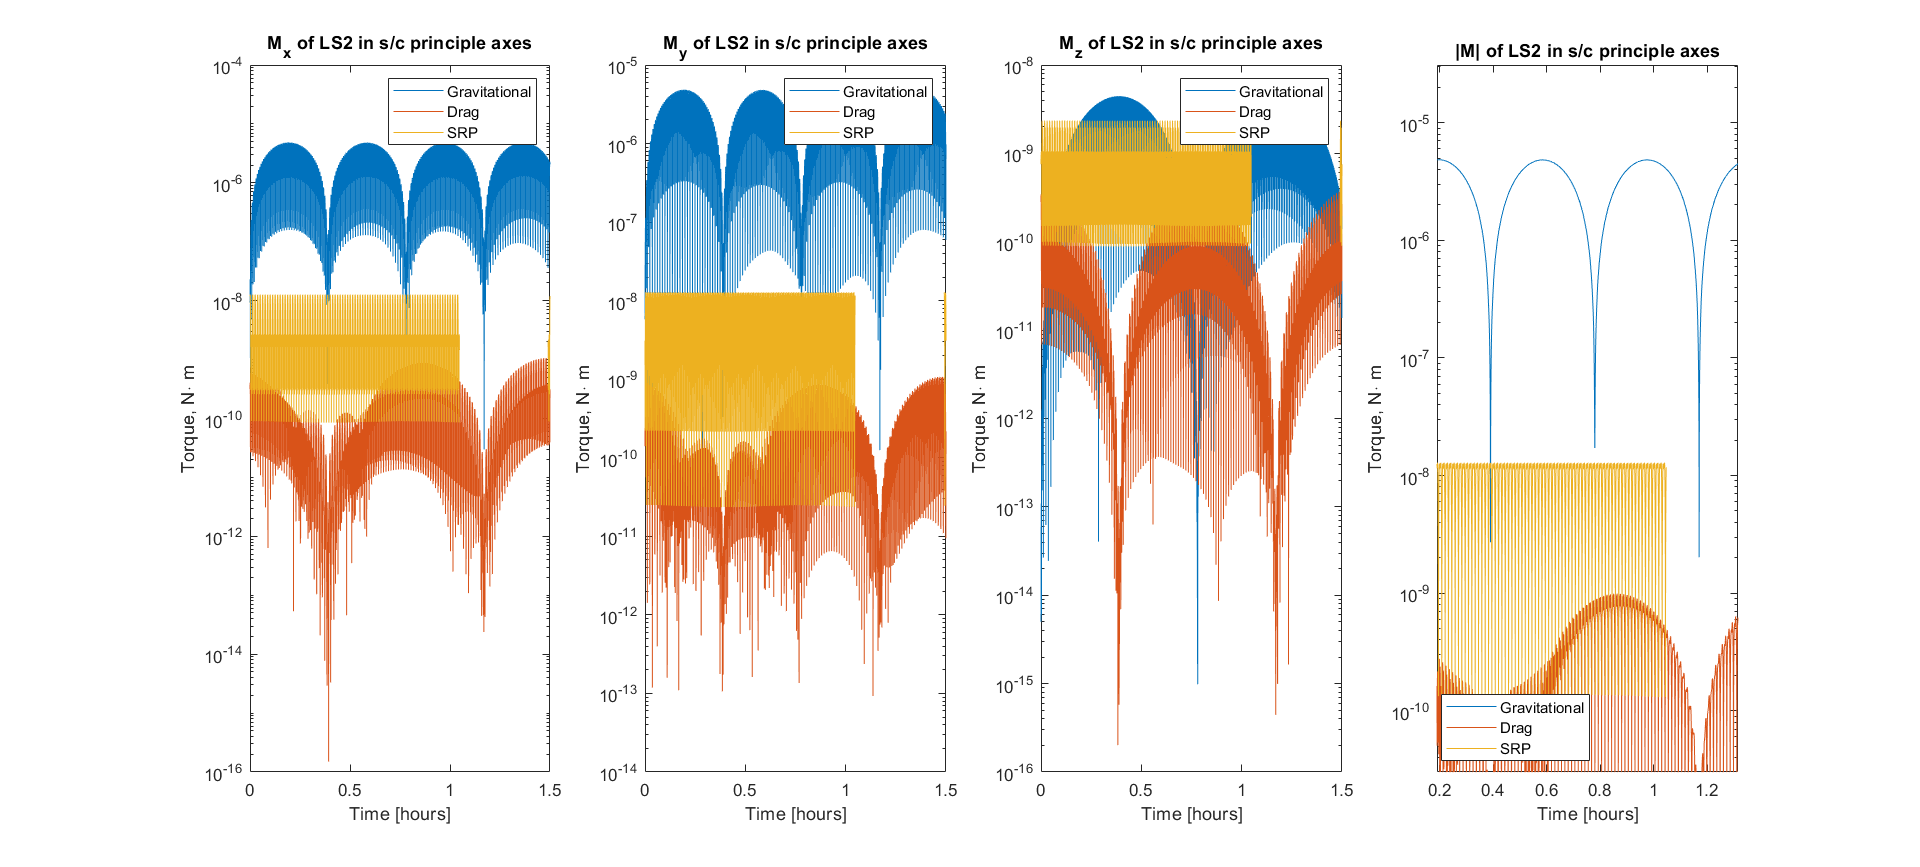
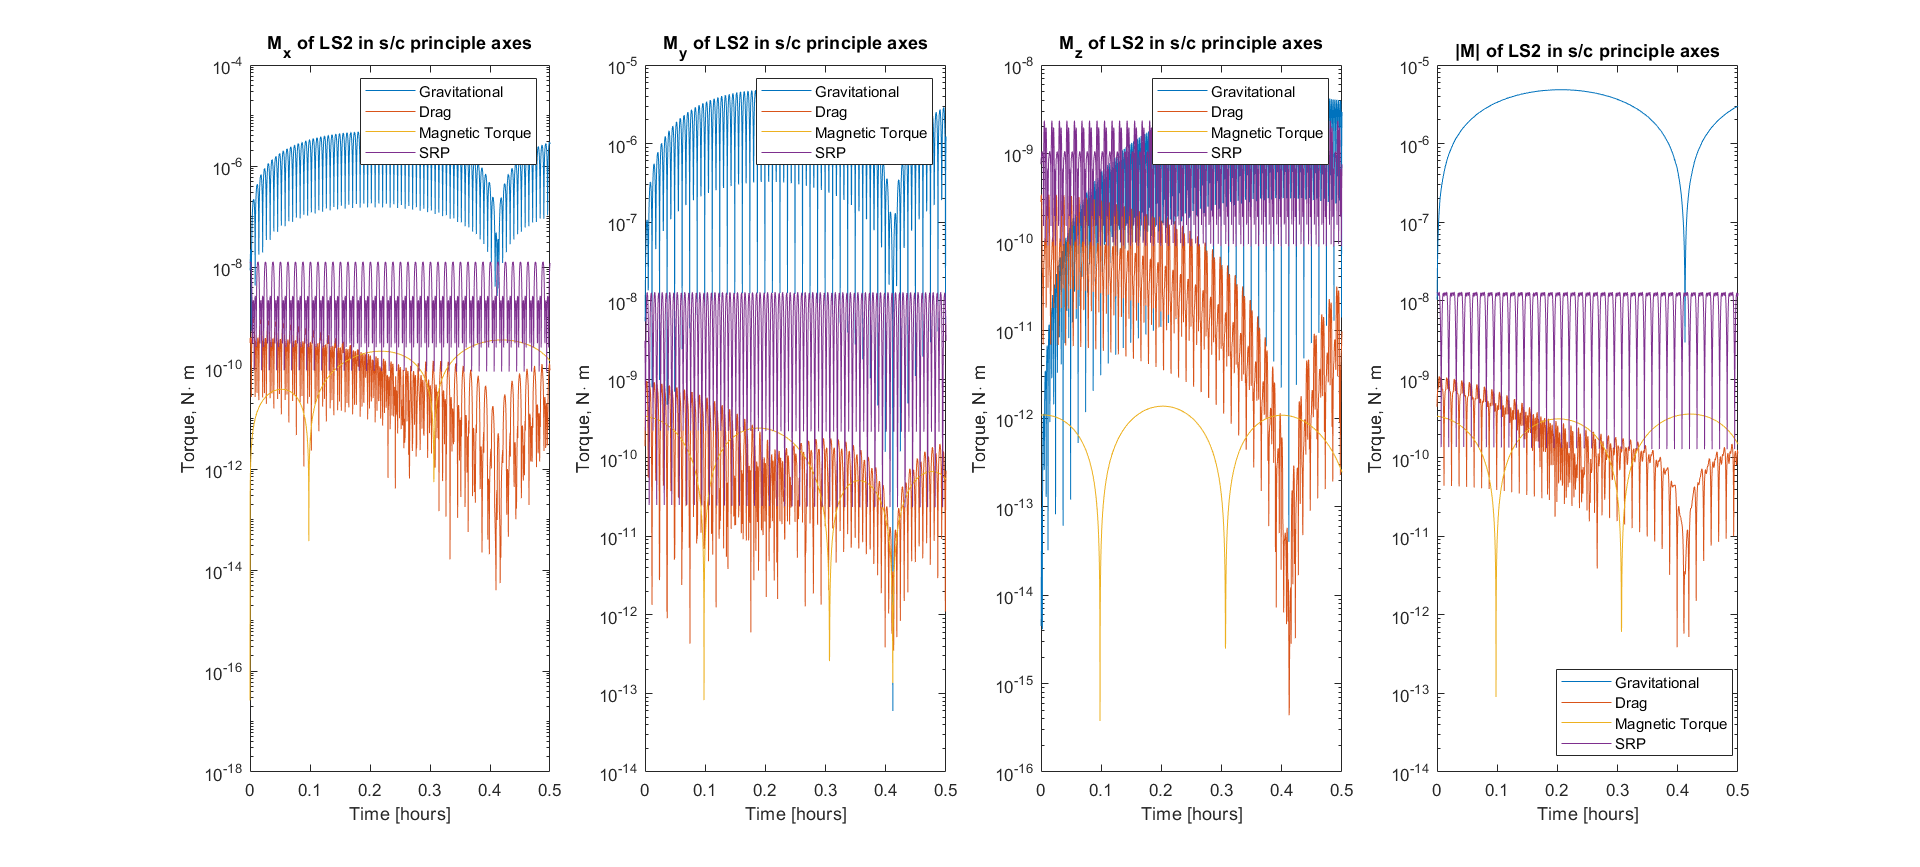
Added new torque comparison with magnetic field, added calculation of Wertz value for magnetic torque.

diff --git a/Matlab/PSET5/Perturbation_Testing.m b/Matlab/PSET5/Perturbation_Testing.m
@@ -28,6 +28,7 @@ plot_format = check_time_increments(plot_format);
 %% Run + process sim
 sim_constants.q0 = [0; sqrt(2)/2; 0; sqrt(2)/2]; % point z in direction of motion, more or less
 sim_constants.angvel0 = deg2rad([0; 0; 8]); % spin about z
+sim_constants.orbital_perturbations_on = false;
 sim('Propagator');
 
 % Extract + plot data
@@ -69,9 +70,10 @@ rho = atmospheric_model(sim_constants.R_Earth, ECI_positions.Data(1,:));
 theta_max = pi/3;
 Mg_max = 1.5*sim_constants.mu_Earth/(norm(ECI_positions.Data(1,:))^3)...
             *(sim_constants.I_princ(3)-sim_constants.I_princ(1))*sin(2*theta_max);
+Mmag_max = 1.5*norm(sim_constants.mag_mom_princ)*7.96e6/(sim_constants.R_Earth^3); 
 Msrp_max = cp*sim_constants.SRP*sim_constants.effective_area_sat_max*1.6 ;
 Mdrag_max = 0.5*cp*rho*sim_constants.Cdrag*sim_constants.effective_area_sat_max*(norm(1000*ECI_velocities.Data(1,:))^2);
-fprintf('Wertz Grav Torque: %0.3e Nm \n Wertz SRP Torque: %0.3e Nm \n Wertz Drag Torque: %0.3e Nm \n', Mg_max, Msrp_max, Mdrag_max);
+fprintf('Wertz Grav Torque: %0.3e Nm \nWertz Mag Torque: %0.3e Nm \nWertz SRP Torque: %0.3e Nm \nWertz Drag Torque: %0.3e Nm \n', Mg_max, Mmag_max, Msrp_max, Mdrag_max);
 %% beep beep
 
 beep;
